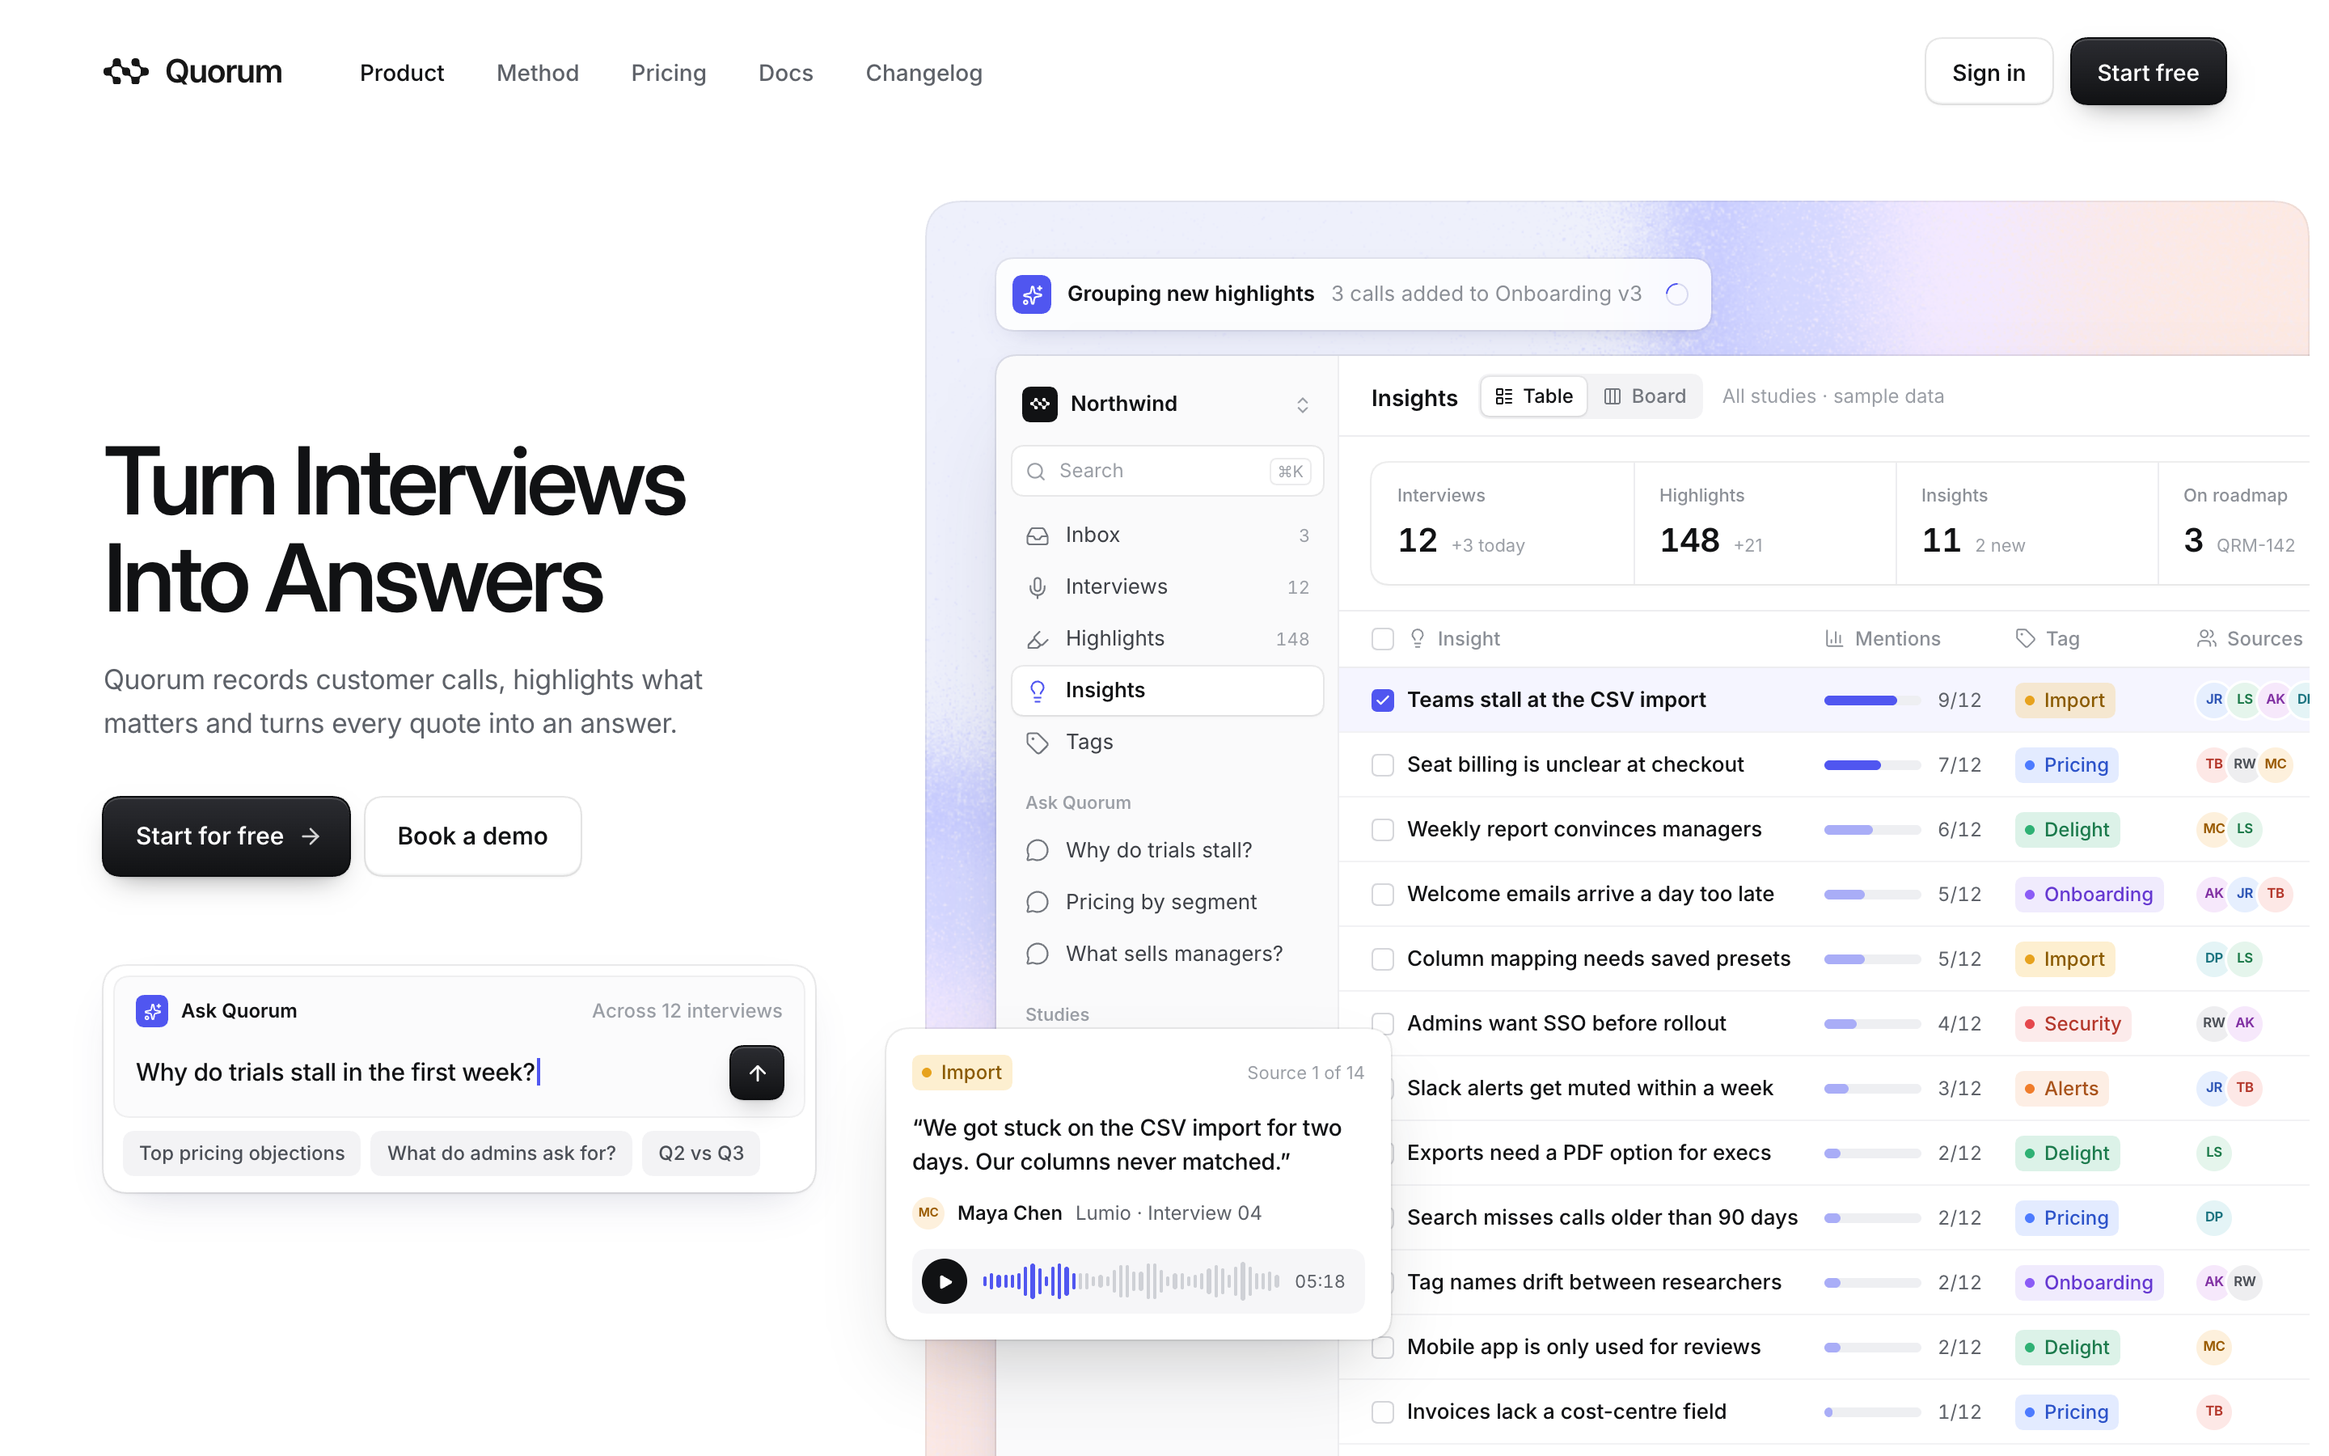
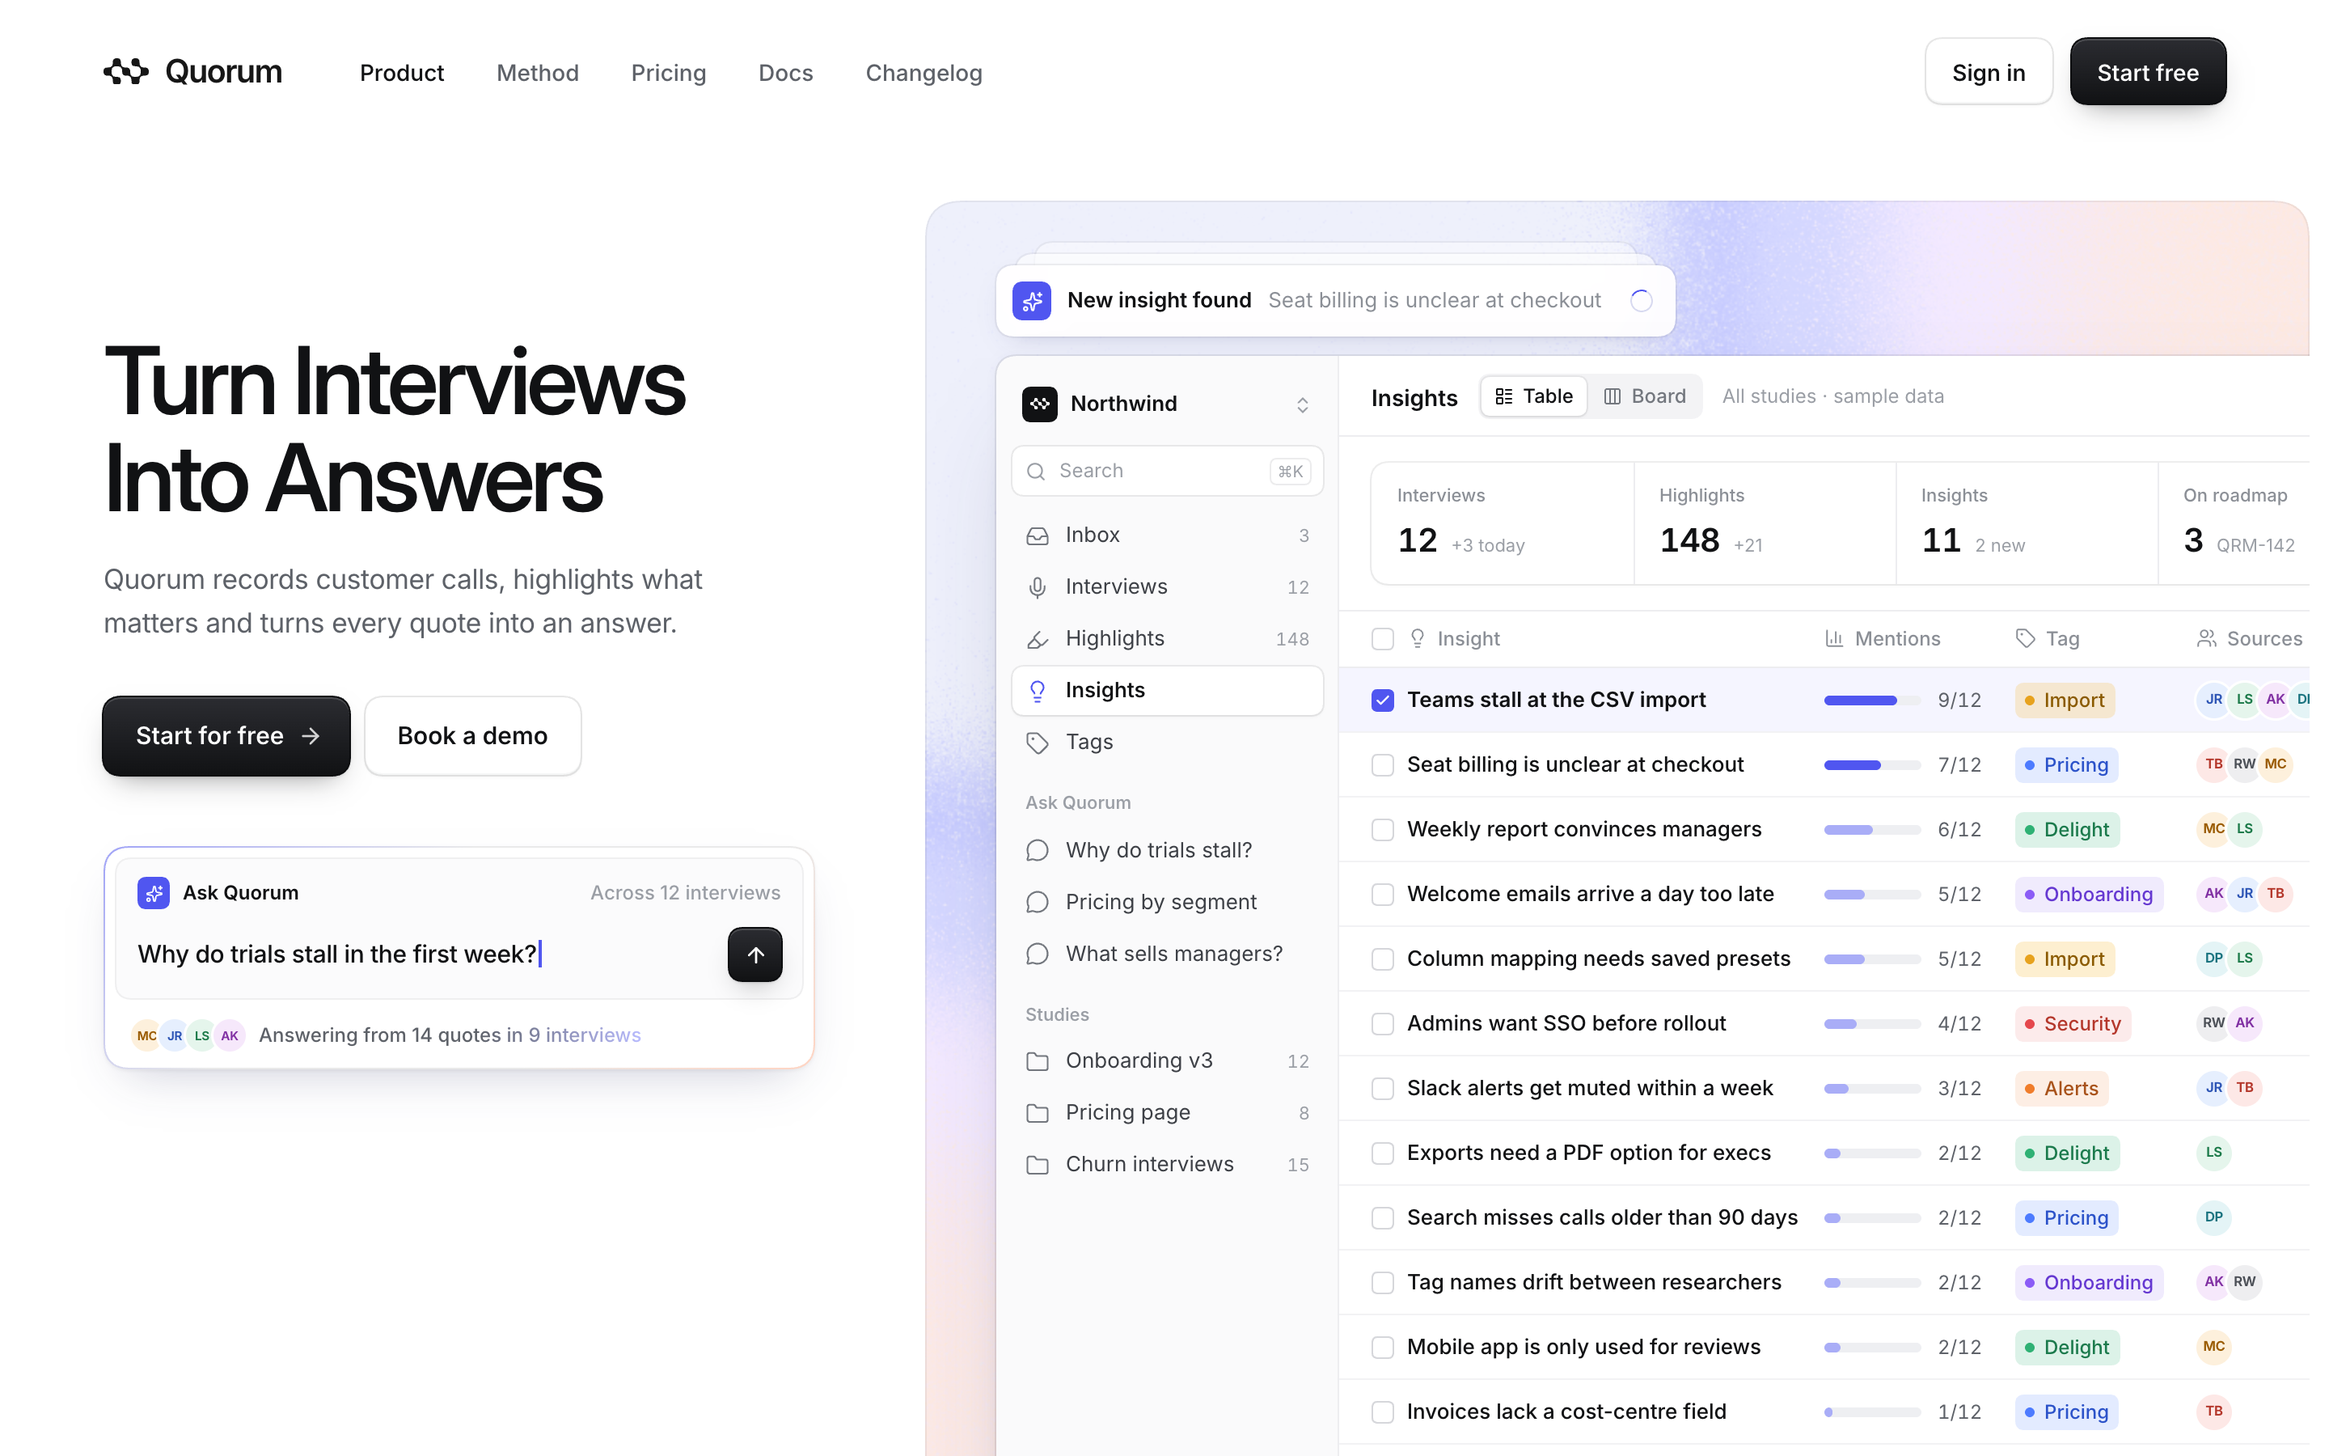
Quorum v6.2: copy higher, live Ask composer, cycling agent stack, peek popover removed; founder rule on floaters

diff --git a/work/quorum/app/src/HeroV6.tsx b/work/quorum/app/src/HeroV6.tsx
@@ -3,9 +3,9 @@
 // rendered grain light field (one indigo hue, lit from the top right), the Insights app framed inside it and bleeding out,
 // a peek card with the source quote and clip straddling the stage edge, quiet substance under the CTAs, tactile buttons.
 import { type ReactNode, useEffect, useState } from 'react'
-import { motion, MotionConfig } from 'motion/react'
+import { AnimatePresence, motion, MotionConfig } from 'motion/react'
 import { GrainGradient } from '@paper-design/shaders-react'
-import { ArrowRight, ArrowUp, BarChart3, Check, ChevronsUpDown, Highlighter, Inbox, Lightbulb, Mic, MessageCircle, Play, Search, Sparkles, Tag, Users, Folder, LayoutList, Columns3 } from 'lucide-react'
+import { ArrowRight, ArrowUp, BarChart3, Check, ChevronsUpDown, Highlighter, Inbox, Lightbulb, Mic, MessageCircle, Search, Sparkles, Tag, Users, Folder, LayoutList, Columns3 } from 'lucide-react'
 import { ease } from './motion'
 import { TAG, type TagKey } from './Product'
 import QuorumLogo, { QuorumMark } from './QuorumLogo'
@@ -112,18 +112,27 @@ function App() {
   )
 }
 
-const BARS = Array.from({ length: 44 }, (_, i) => 0.25 + 0.75 * Math.abs(Math.sin(i * 0.7) * Math.cos(i * 0.23 + 1)))
-function Peek() {
+/* agent stack: what Quorum is doing right now, as a minimal toast stack that cycles (two ghost cards behind the front one) */
+const EVENTS: [string, string][] = [['Grouping new highlights', '3 calls added to Onboarding v3'], ['Tagged 21 quotes', 'Import · Pricing · Delight'], ['New insight found', 'Seat billing is unclear at checkout']]
+function AgentStack() {
+  const [k, setK] = useState(0)
+  useEffect(() => {
+    if (matchMedia('(prefers-reduced-motion: reduce)').matches) return
+    const id = window.setInterval(() => setK((v) => (v + 1) % EVENTS.length), 2600)
+    return () => window.clearInterval(id)
+  }, [])
   return (
-    <motion.div className="absolute z-30 w-[312px] rounded-[16px] bg-white p-4" style={{ left: 548, top: 636, boxShadow: '0 0 0 1px rgba(17,18,20,0.07), 0 2px 4px rgba(17,18,20,0.04), 0 24px 48px -16px rgba(17,18,20,0.24)' }}
-      initial={{ opacity: 0, y: 18, scale: 0.97 }} animate={{ opacity: 1, y: 0, scale: 1 }} transition={{ delay: T.peek, duration: 1.0, ease: ease.reveal, opacity: { delay: T.peek, duration: 0.5 } }}>
-      <div className="flex items-center gap-2"><span className="inline-flex h-[22px] items-center gap-1.5 rounded-[6px] px-1.5 text-[12px] font-[500]" style={{ background: TAG.import.bg, color: TAG.import.ink }}><span className="size-1.5 rounded-full" style={{ background: TAG.import.dot }} />Import</span><span className="ml-auto text-[11px] text-[#9a9ea5]">Source 1 of 14</span></div>
-      <p className="mt-3 text-[14px] font-[500] leading-[21px] tracking-[-0.01em]">“We got stuck on the CSV import for two days. Our columns never matched.”</p>
-      <div className="mt-3 flex items-center gap-2 text-[12px] text-[#5d6168]"><Av i="MC" s={20} /><span className="font-[550] text-[#111214]">Maya Chen</span>Lumio · Interview 04</div>
-      <div className="mt-3 flex items-center gap-2.5 rounded-[10px] bg-[#f6f6f8] p-1.5 pr-3">
-        <span className="grid size-7 place-items-center rounded-full bg-[#111214] text-white"><Play size={11} fill="#fff" strokeWidth={0} /></span>
-        <span className="flex h-6 flex-1 items-center gap-[2px]">{BARS.map((b, i) => <span key={i} className="w-[2px] flex-1 rounded-full" style={{ height: `${b * 100}%`, background: i < 14 ? IND : '#cfd1d6' }} />)}</span>
-        <span className="tnum text-[11px] text-[#5d6168]">05:18</span>
+    <motion.div className="absolute left-[44px] top-[40px] h-11 w-[420px]" initial={{ opacity: 0, y: 8 }} animate={{ opacity: 1, y: 0 }} transition={{ delay: T.bar, duration: 0.7, ease: ease.outQuint }}>
+      <span className="absolute inset-x-6 -top-[14px] h-11 rounded-[12px] bg-white/40 shadow-[0_0_0_1px_rgba(17,18,20,0.05)]" />
+      <span className="absolute inset-x-3 -top-[7px] h-11 rounded-[12px] bg-white/65 shadow-[0_0_0_1px_rgba(17,18,20,0.05)]" />
+      <div className="absolute inset-0 overflow-hidden rounded-[12px] bg-white/90 backdrop-blur-md" style={{ boxShadow: '0 0 0 1px rgba(17,18,20,0.06), 0 6px 16px -8px rgba(40,44,120,0.25)' }}>
+        <AnimatePresence initial={false}>
+          <motion.div key={k} className="absolute inset-0 flex items-center gap-2.5 pl-2.5 pr-3.5 text-[13px]" initial={{ y: 24, opacity: 0 }} animate={{ y: 0, opacity: 1 }} exit={{ y: -24, opacity: 0 }} transition={{ duration: 0.5, ease: ease.outQuint }}>
+            <span className="grid size-6 place-items-center rounded-[7px] text-white" style={{ background: IND }}><Sparkles size={13} /></span>
+            <span className="font-[600]">{EVENTS[k][0]}</span><span className="truncate text-[#8b8f96]">{EVENTS[k][1]}</span>
+            <motion.span className="ml-auto size-3.5 shrink-0 rounded-full border-[1.5px] border-[#d8daf0] border-t-[#5056f0]" animate={{ rotate: 360 }} transition={{ repeat: Infinity, duration: 1, ease: 'linear' }} />
+          </motion.div>
+        </AnimatePresence>
       </div>
     </motion.div>
   )
@@ -133,6 +142,7 @@ function Peek() {
 const Q = 'Why do trials stall in the first week?'
 function AskBox() {
   const [n, setN] = useState(0)
+  const done = n >= Q.length
   useEffect(() => {
     if (matchMedia('(prefers-reduced-motion: reduce)').matches) { setN(Q.length); return }
     let id = 0
@@ -140,7 +150,8 @@ function AskBox() {
     return () => { window.clearTimeout(start); window.clearInterval(id) }
   }, [])
   return (
-    <div className="w-[440px] rounded-[16px] bg-white p-1.5 shadow-[0_0_0_1px_rgba(17,18,20,0.08),0_1px_2px_rgba(17,18,20,0.05),0_12px_28px_-14px_rgba(30,34,90,0.22)]">
+    <div className="w-[440px] rounded-[17px] p-px shadow-[0_1px_2px_rgba(17,18,20,0.05),0_14px_30px_-14px_rgba(30,34,90,0.25)]" style={{ background: 'linear-gradient(140deg, rgba(80,86,240,0.55), rgba(17,18,20,0.09) 38%, rgba(17,18,20,0.09) 70%, rgba(255,160,120,0.45))' }}>
+    <div className="rounded-[16px] bg-white p-1.5">
       <div className="rounded-[11px] bg-[#fbfbfc] px-3.5 pb-3 pt-3 shadow-[inset_0_0_0_1px_rgba(17,18,20,0.05)]">
         <div className="flex items-center gap-2 text-[12px] font-[600]"><span className="grid size-5 place-items-center rounded-[6px] text-white" style={{ background: IND }}><Sparkles size={11} /></span>Ask Quorum<span className="ml-auto font-[500] text-[#9a9ea5]">Across 12 interviews</span></div>
         <div className="mt-3 flex items-center gap-3">
@@ -148,9 +159,16 @@ function AskBox() {
           <span className="b6-ink grid size-8 shrink-0 place-items-center rounded-[9px] text-white"><ArrowUp size={15} strokeWidth={2.2} /></span>
         </div>
       </div>
-      <div className="flex gap-1.5 px-1.5 pb-1 pt-2">
-        {['Top pricing objections', 'What do admins ask for?', 'Q2 vs Q3'].map((c) => <span key={c} className="flex h-7 items-center rounded-[8px] bg-[#f3f3f5] px-2.5 text-[12px] font-[500] text-[#4b4f56]">{c}</span>)}
+      <div className="relative h-9 px-1.5 pt-2">
+        <motion.div className="absolute inset-x-1.5 top-2 flex gap-1.5" animate={{ opacity: done ? 0 : 1, y: done ? -6 : 0 }} transition={{ duration: 0.35 }}>
+          {['Top pricing objections', 'What do admins ask for?', 'Q2 vs Q3'].map((c) => <span key={c} className="flex h-7 items-center rounded-[8px] bg-[#f3f3f5] px-2.5 text-[12px] font-[500] text-[#4b4f56]">{c}</span>)}
+        </motion.div>
+        <motion.div className="absolute inset-x-2.5 top-2 flex h-7 items-center gap-2 text-[12px] text-[#5d6168]" initial={{ opacity: 0, y: 6 }} animate={{ opacity: done ? 1 : 0, y: done ? 0 : 6 }} transition={{ duration: 0.45, delay: done ? 0.2 : 0 }}>
+          <span className="flex -space-x-[3px]">{['MC', 'JR', 'LS', 'AK'].map((a) => <Av key={a} i={a} s={20} />)}</span>
+          <span className="shimmer font-[500]">Answering from 14 quotes in 9 interviews</span>
+        </motion.div>
       </div>
+    </div>
     </div>
   )
 }
@@ -177,7 +195,7 @@ export default function HeroV6() {
     <MotionConfig reducedMotion="user">
       <div className="relative mx-auto h-[900px] w-[1440px] overflow-hidden bg-white" style={{ color: INK, fontFamily: '"Inter Variable", system-ui, sans-serif', fontOpticalSizing: 'auto', fontFeatureSettings: '"cv11", "ss01"' }}>
         <Nav />
-        <section className="absolute left-[64px] top-[268px] z-20 w-[470px]">
+        <section className="absolute left-[64px] top-[206px] z-20 w-[470px]">
           <h1 className="text-[58px] font-[550] leading-[1.03] tracking-[-0.045em]">
             {['Turn Interviews', 'Into Answers'].map((l, i) => (
               <motion.span key={l} className="block" initial={{ opacity: 0.01, y: 30, filter: 'blur(6px)' }} animate={{ opacity: 1, y: 0, filter: 'blur(0px)' }}
@@ -189,25 +207,19 @@ export default function HeroV6() {
             <a href="#" className="b6-ink press group flex h-12 items-center gap-2 rounded-[12px] pl-5 pr-4 text-white">Start for free<ArrowRight size={16} strokeWidth={2} className="opacity-80 transition-transform duration-300 group-hover:translate-x-0.5" /></a>
             <a href="#" className="b6-ghost press flex h-12 items-center rounded-[12px] px-5">Book a demo</a>
           </Up>
-          <Up at={T.feats} className="mt-14"><AskBox /></Up>
+          <Up at={T.feats} className="mt-11"><AskBox /></Up>
         </section>
 
         <motion.div className="absolute z-10 overflow-hidden rounded-[24px]" style={{ left: STAGE.x, top: STAGE.y, width: STAGE.w, height: STAGE.h }}
           initial={{ opacity: 0 }} animate={{ opacity: 1 }} transition={{ delay: T.stage, duration: 1.0 }}>
           <GrainGradient style={{ position: 'absolute', inset: 0, width: STAGE.w, height: STAGE.h }} colorBack="#eef0fb" colors={['#aeb4ff', '#d4d7ff', '#f3e9ff', '#ffe9dc']} shape="corners" softness={0.85} intensity={0.22} noise={0.28} speed={0.25} />
           <div aria-hidden className="absolute inset-0 rounded-[24px] shadow-[inset_0_0_0_1px_rgba(17,18,20,0.06)]" />
-          <motion.div className="absolute left-[44px] top-[36px] flex h-11 items-center gap-2.5 rounded-[12px] bg-white/85 pl-2.5 pr-3.5 text-[13px] backdrop-blur-md" style={{ boxShadow: '0 0 0 1px rgba(17,18,20,0.06), 0 6px 16px -8px rgba(40,44,120,0.25)' }}
-            initial={{ opacity: 0, y: 8 }} animate={{ opacity: 1, y: 0 }} transition={{ delay: T.bar, duration: 0.7, ease: ease.outQuint }}>
-            <span className="grid size-6 place-items-center rounded-[7px] text-white" style={{ background: IND }}><Sparkles size={13} /></span>
-            <span className="font-[600]">Grouping new highlights</span><span className="text-[#8b8f96]">3 calls added to Onboarding v3</span>
-            <motion.span className="ml-1 size-3.5 rounded-full border-[1.5px] border-[#d8daf0] border-t-[#5056f0]" animate={{ rotate: 360 }} transition={{ repeat: Infinity, duration: 1, ease: 'linear' }} />
-          </motion.div>
+          <AgentStack />
           <motion.div className="absolute left-[44px] top-[96px] h-[760px] w-[900px] overflow-hidden rounded-[14px] bg-white" style={{ boxShadow: '0 0 0 1px rgba(17,18,20,0.08), 0 2px 6px rgba(30,34,90,0.06), 0 30px 60px -24px rgba(30,34,90,0.28)' }}
             initial={{ opacity: 0, y: 40 }} animate={{ opacity: 1, y: 0 }} transition={{ delay: T.app, duration: 1.3, ease: ease.reveal, opacity: { delay: T.app, duration: 0.6 } }}>
             <App />
           </motion.div>
         </motion.div>
-        <Peek />
       </div>
     </MotionConfig>
   )

diff --git a/work/quorum/app/src/index.css b/work/quorum/app/src/index.css
@@ -70,3 +70,7 @@ p { text-wrap: pretty; }
 .caret { animation: caret 1s steps(1) infinite; }
 @keyframes caret { 50% { opacity: 0; } }
 @media (prefers-reduced-motion: reduce) { .caret { animation: none; } }
+
+.shimmer { background: linear-gradient(90deg, #5d6168 30%, #b9bcff 50%, #5d6168 70%) 0 0 / 220% 100%; -webkit-background-clip: text; background-clip: text; color: transparent; animation: shimmer 2.2s linear infinite; }
+@keyframes shimmer { to { background-position: -220% 0; } }
+@media (prefers-reduced-motion: reduce) { .shimmer { animation: none; color: #5d6168; } }

diff --git a/knowledge/founder/founder-taste.md b/knowledge/founder/founder-taste.md
@@ -288,6 +288,9 @@ Every rule here is a direct founder verdict on real output. It outranks books, w
   - fill space under the CTAs with a real product element (an Ask/composer box typing a question, with suggestion chips), never a stack of icon + text bullet points.
   **Why** Founder on Quorum v6 ("ouuu this is cool"): "the right box is a bit up and then the left side looks strange... the bottom right corner just white... need the full list in the dashboard... those 3 points below... do some sort of visual or box but not like that".
   **Applies to** split heroes. **Check** no rows fade before the viewport edge; nothing under the CTAs is a bullet list; the stage top is within 60px of the h1 top. **Source** founder, Quorum v6, 2026-10-15
+- **RULE** [founder] Don't stack floaters over the product: a popover with its own visual (waveform, chart) on top of a dense dashboard competes with it, so cut it. Above the product, use one minimal live element: a status bar as a small toast stack (two ghost cards behind the front one, the front message cycling every ~2.6s). The composer under the CTAs earns its place by acting (the question types itself, then the chips swap for an "Answering from N quotes" line with source avatars), with a gradient hairline edge (accent to neutral to warm).
+  **Why** Founder on Quorum v6.1: "the title needs to be more up and the visual a bit higher or cooler... that little popover box with a voice visual... is too much and just interferes... above the dashboard something cooler with that line or stack, something more there minimally".
+  **Applies to** split product heroes. **Check** at most one floating element over the product; the h1 top sits at about 200-210 on a 900 fold. **Source** founder, Quorum v6.1, 2026-10-15
 ## 5. Exceptions & judgement calls
 
 - The split layout (copy left, visual right) was rejected by Larpo when the right side was a decorative dashboard. With a real product world on the right (the payout globe) the founder accepted it.
